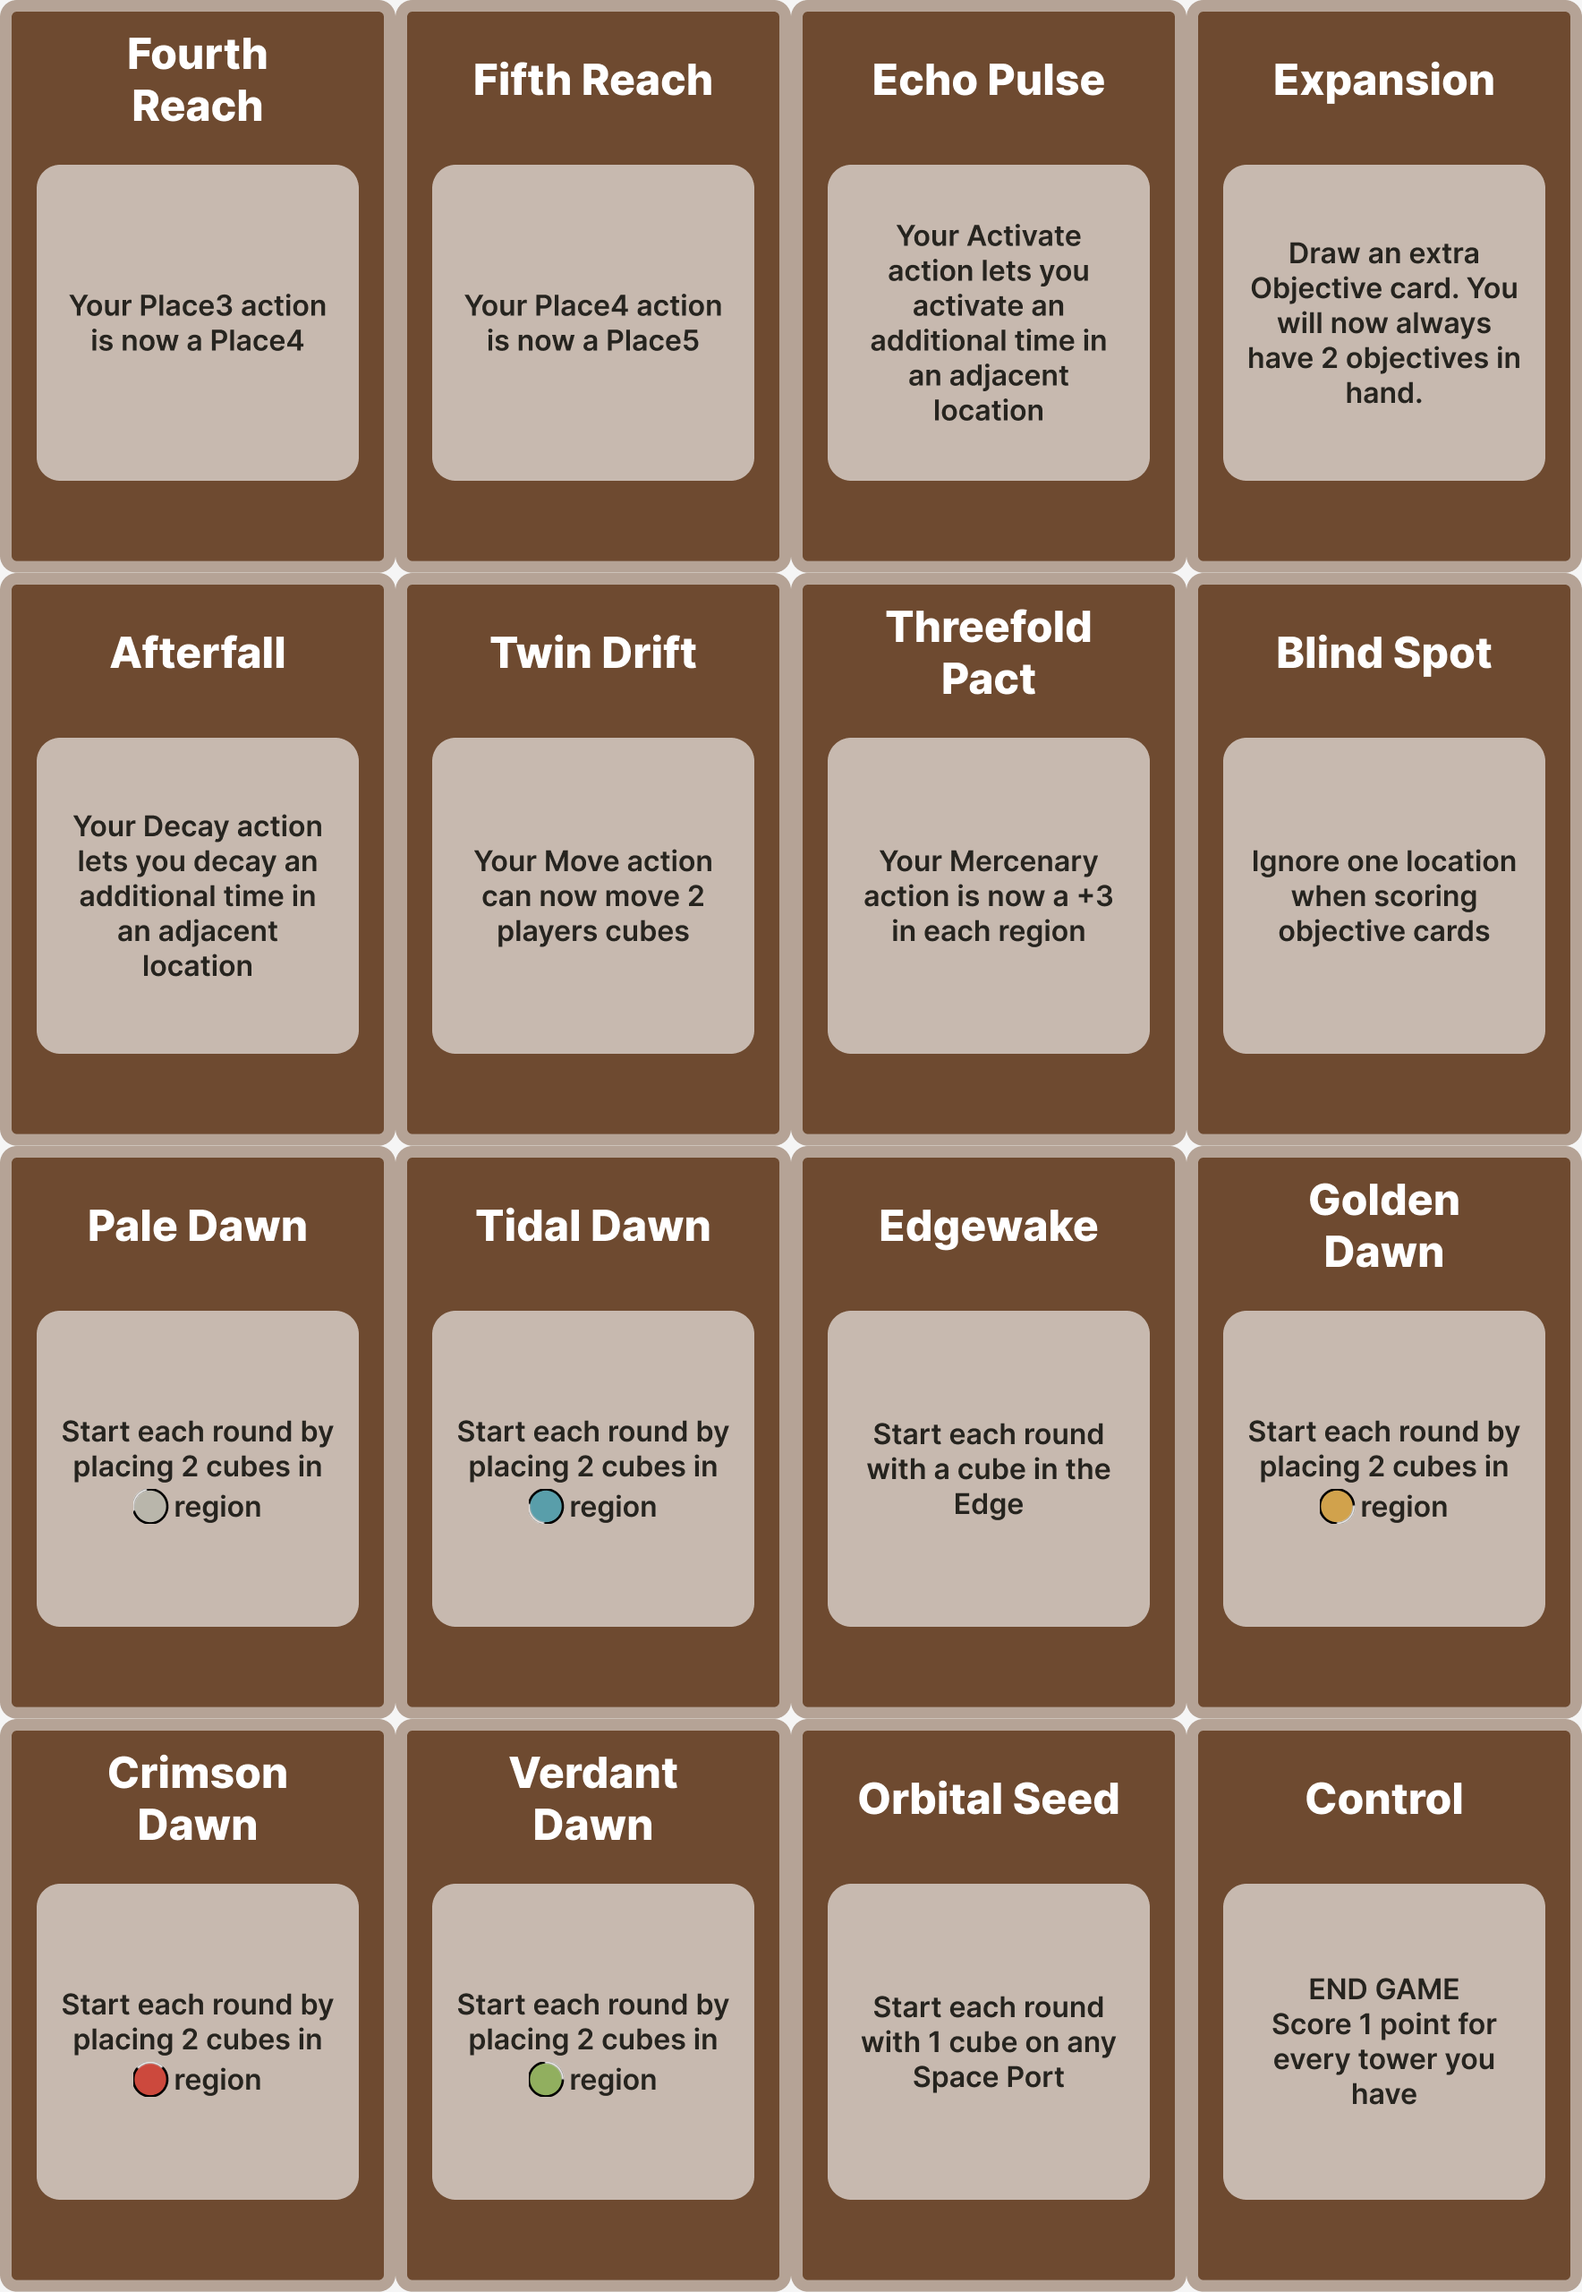
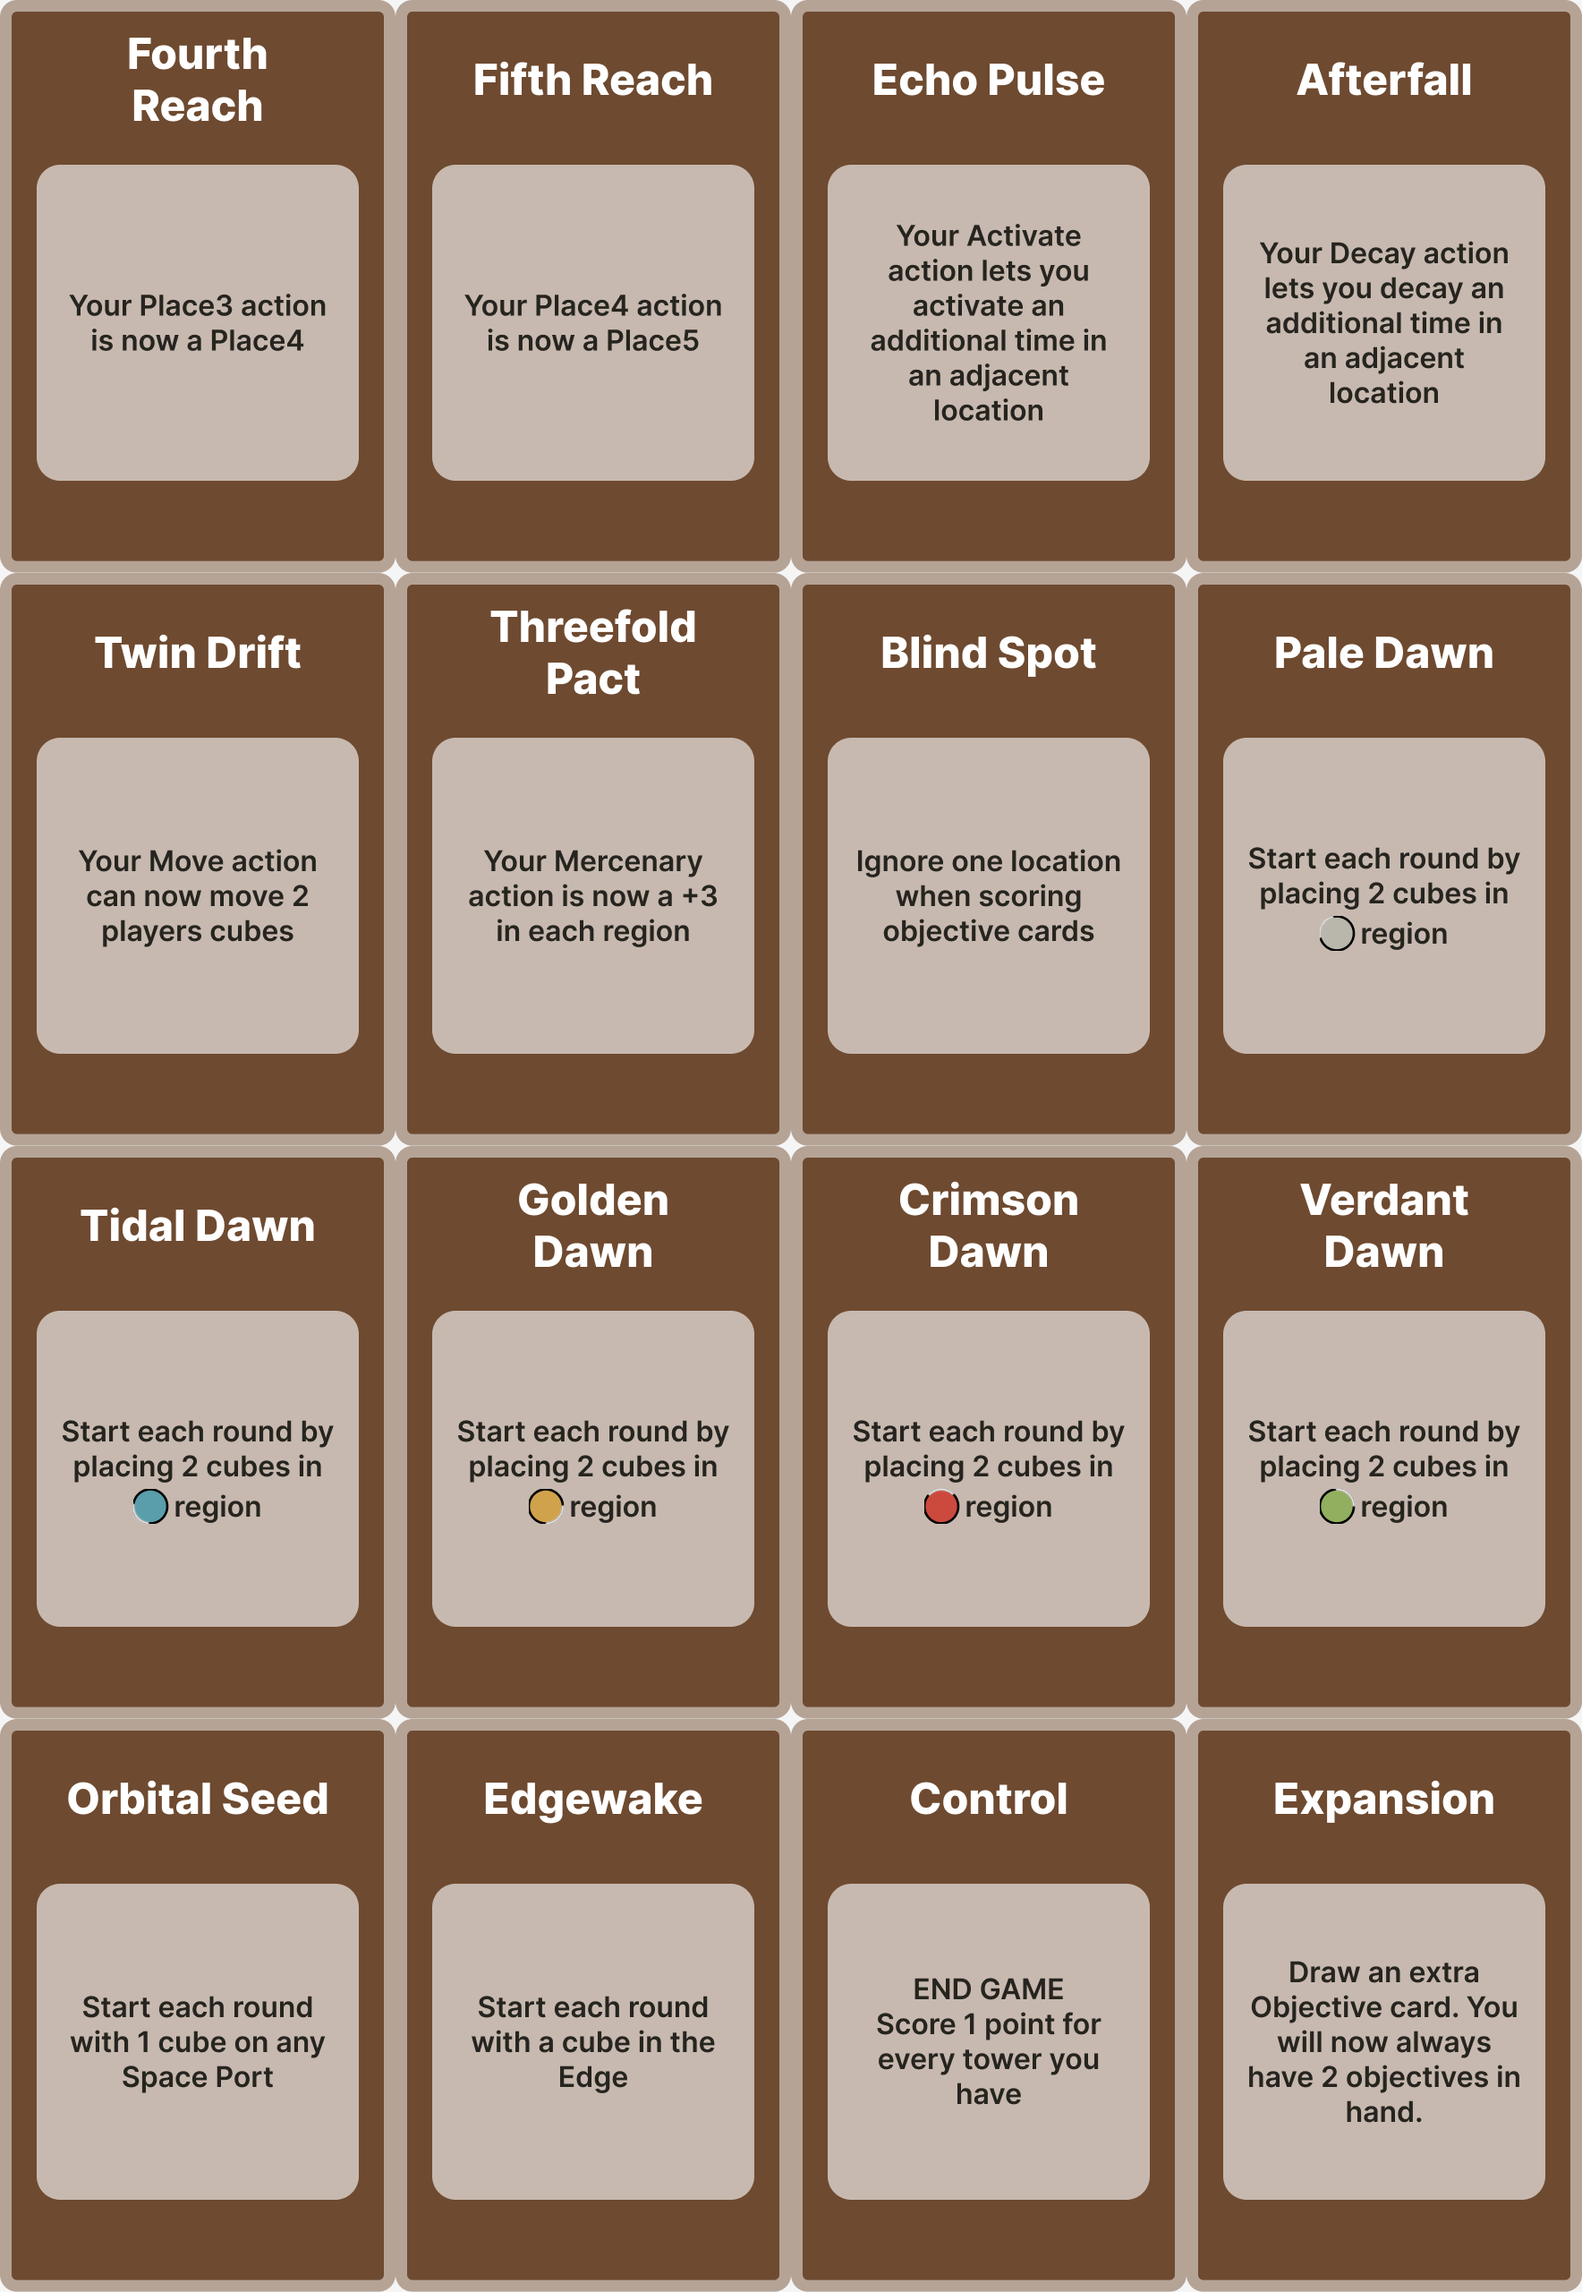
Publish Page 3 game assets and rebalance monuments

diff --git a/docs/catalog.js b/docs/catalog.js
@@ -1,1 +1,1 @@
-window.FRONTIER_CATALOG = {"source": "Figma Game components slice 218:13798", "boards": [{"title": "Main board", "figmaId": "206:12165", "path": "assets/boards/board-main-e46ceed54f.png", "width": 3394, "height": 2761}, {"title": "The Edge", "figmaId": "207:12552", "path": "assets/boards/board-edge-4a245f7e45.png", "width": 1536, "height": 1024}], "cards": [{"title": "Action Guide", "figmaId": "193:5684", "path": "assets/cards/card-action-guide-6323e6fee4.png", "width": 506, "height": 729}, {"title": "Region Bonus Guide", "figmaId": "193:5730", "path": "assets/cards/card-region-bonus-guide-800eb32bd9.png", "width": 506, "height": 732}], "references": [], "decks": [{"title": "Monuments", "figmaId": "216:4802", "count": 33, "columns": 8, "rows": 5, "cardWidth": 442, "cardHeight": 640, "face": {"path": "assets/decks/monuments-faces-d44fdccb0e.png", "width": 3536, "height": 3200}, "back": {"path": "assets/decks/monuments-back-a65fba90e2.png", "width": 442, "height": 640}}, {"title": "Objectives", "figmaId": "193:5755", "count": 30, "columns": 6, "rows": 5, "cardWidth": 388, "cardHeight": 519, "face": {"path": "assets/decks/objectives-faces-4d91a50427.png", "width": 2328, "height": 2595}, "back": {"path": "assets/decks/objectives-back-c08c78cc67.png", "width": 388, "height": 519}}, {"title": "Specials", "figmaId": "220:3842", "count": 16, "columns": 4, "rows": 4, "cardWidth": 442, "cardHeight": 640, "face": {"path": "assets/decks/specials-faces-adc1172863.png", "width": 1768, "height": 2560}, "back": {"path": "assets/decks/specials-back-0b946676e3.png", "width": 442, "height": 640}}], "tokens": [{"title": "Action tile 1", "figmaId": "193:5655", "path": "assets/tokens/action-tile-1-fb100c9aa5.png", "width": 213, "height": 213}, {"title": "Action tile 2", "figmaId": "193:5672", "path": "assets/tokens/action-tile-2-7107aa55c8.png", "width": 213, "height": 213}, {"title": "Action tile 3", "figmaId": "253:3964", "path": "assets/tokens/action-tile-3-ef94b504ad.png", "width": 213, "height": 213}, {"title": "Action tile 4", "figmaId": "193:5678", "path": "assets/tokens/action-tile-4-21af0fce2d.png", "width": 213, "height": 213}, {"title": "Action tile 5", "figmaId": "193:5660", "path": "assets/tokens/action-tile-5-39a0ec00fc.png", "width": 213, "height": 213}, {"title": "Action tile 6", "figmaId": "193:5669", "path": "assets/tokens/action-tile-6-813e8438d5.png", "width": 213, "height": 213}, {"title": "Action tile 7", "figmaId": "229:13799", "path": "assets/tokens/action-tile-7-7d3d7a7703.png", "width": 213, "height": 213}]};
+window.FRONTIER_CATALOG = {"source": "Figma Page 3 Game components slice 282:2815", "boards": [{"title": "Main board", "figmaId": "282:1521", "path": "assets/boards/board-main-e46ceed54f.png", "width": 3394, "height": 2761}, {"title": "The Edge", "figmaId": "282:1845", "path": "assets/boards/board-edge-4a245f7e45.png", "width": 1536, "height": 1024}], "cards": [{"title": "Action Guide", "figmaId": "282:1189", "path": "assets/cards/card-action-guide-6323e6fee4.png", "width": 506, "height": 729}, {"title": "Region Bonus Guide", "figmaId": "282:1230", "path": "assets/cards/card-region-bonus-guide-800eb32bd9.png", "width": 506, "height": 732}], "references": [], "decks": [{"title": "Monuments", "figmaId": "282:1897", "count": 30, "columns": 8, "rows": 4, "cardWidth": 442, "cardHeight": 640, "face": {"path": "assets/decks/monuments-faces-d44fdccb0e.png", "width": 3536, "height": 2560}, "back": {"path": "assets/decks/monuments-back-a65fba90e2.png", "width": 442, "height": 640}}, {"title": "Objectives", "figmaId": "282:1252", "count": 30, "columns": 6, "rows": 5, "cardWidth": 388, "cardHeight": 519, "face": {"path": "assets/decks/objectives-faces-4d91a50427.png", "width": 2328, "height": 2595}, "back": {"path": "assets/decks/objectives-back-c08c78cc67.png", "width": 388, "height": 519}}, {"title": "Specials", "figmaId": "282:2715", "count": 16, "columns": 4, "rows": 4, "cardWidth": 442, "cardHeight": 640, "face": {"path": "assets/decks/specials-faces-adc1172863.png", "width": 1768, "height": 2560}, "back": {"path": "assets/decks/specials-back-0b946676e3.png", "width": 442, "height": 640}}], "tokens": [{"title": "Action tile 1", "figmaId": "282:1158", "path": "assets/tokens/action-tile-1-fb100c9aa5.png", "width": 213, "height": 213}, {"title": "Action tile 2", "figmaId": "282:1180", "path": "assets/tokens/action-tile-2-7107aa55c8.png", "width": 213, "height": 213}, {"title": "Action tile 4", "figmaId": "282:1183", "path": "assets/tokens/action-tile-4-21af0fce2d.png", "width": 213, "height": 213}, {"title": "Action tile 5", "figmaId": "282:1168", "path": "assets/tokens/action-tile-5-39a0ec00fc.png", "width": 213, "height": 213}, {"title": "Action tile 6", "figmaId": "282:1177", "path": "assets/tokens/action-tile-6-813e8438d5.png", "width": 213, "height": 213}, {"title": "Action tile 7", "figmaId": "282:1163", "path": "assets/tokens/action-tile-7-7d3d7a7703.png", "width": 213, "height": 213}, {"title": "Action tile 7 (second design)", "figmaId": "282:2931", "path": "assets/tokens/action-tile-7-variant.png", "width": 213, "height": 213}, {"title": "Action tile 8", "figmaId": "282:2939", "path": "assets/tokens/action-tile-8.png", "width": 213, "height": 213}, {"title": "Action tile 9", "figmaId": "282:3841", "path": "assets/tokens/action-tile-9.png", "width": 213, "height": 213}, {"title": "Action tile 10", "figmaId": "282:3837", "path": "assets/tokens/action-tile-10.png", "width": 213, "height": 213}]};

diff --git a/docs/index.html b/docs/index.html
@@ -6,7 +6,7 @@
   <meta name="theme-color" content="#12171c">
   <title>Frontier · Tabletop Simulator assets</title>
   <link rel="stylesheet" href="styles.css?v=3">
-  <script defer src="catalog.js?v=0d57ff7569"></script>
+  <script defer src="catalog.js?v=48ce4b843c"></script>
   <script defer src="app.js?v=6"></script>
 </head>
 <body>
@@ -46,7 +46,7 @@
       <div id="token-list" class="asset-grid token-grid"></div>
     </section>
   </main>
-  <footer><span>Frontier · Game components</span><span>Source artwork: <a href="https://www.figma.com/design/Pe6o98Z2YYYgNB8kH33Pgl/Frontier?node-id=218-13798" target="_blank" rel="noopener">Figma slice ↗</a></span></footer>
+  <footer><span>Frontier · Game components</span><span>Source artwork: <a href="https://www.figma.com/design/Pe6o98Z2YYYgNB8kH33Pgl/Frontier?node-id=282-2815" target="_blank" rel="noopener">Figma slice ↗</a></span></footer>
   <div class="toast" id="toast" role="status" aria-live="polite"></div>
 </body>
 </html>

diff --git a/scripts/build_assets.py b/scripts/build_assets.py
@@ -123,29 +123,29 @@ def sheet(name: str, count: int, source_columns: int, origin: tuple[int, int],
 def main() -> None:
     DOCS.mkdir(exist_ok=True)
     publish = Publisher()
-    catalog = {"source": "Figma Game components slice 218:13798", "boards": [],
+    catalog = {"source": "Figma Page 3 Game components slice 282:2815", "boards": [],
                "cards": [], "references": [], "decks": [], "tokens": []}
 
     for slug, title, figma_id in [
-        ("board-main", "Main board", "206:12165"),
-        ("board-edge", "The Edge", "207:12552"),
+        ("board-main", "Main board", "282:1521"),
+        ("board-edge", "The Edge", "282:1845"),
     ]:
         catalog["boards"].append({"title": title, "figmaId": figma_id,
                                    **publish(load(slug), "boards", slug)})
 
     for slug, title, figma_id in [
-        ("card-action-guide", "Action Guide", "193:5684"),
-        ("card-region-bonus-guide", "Region Bonus Guide", "193:5730"),
+        ("card-action-guide", "Action Guide", "282:1189"),
+        ("card-region-bonus-guide", "Region Bonus Guide", "282:1230"),
     ]:
         catalog["cards"].append({"title": title, "figmaId": figma_id,
                                   **publish(load(slug), "cards", slug)})
 
     deck_specs = [
-        ("monuments", "monuments", "Monuments", "216:4802", 33, 6, (0, 0), (482, 680),
-         (442, 640), 8, 5, "back-monument", 0),
-        ("objectives", "objectives", "Objectives", "193:5755", 30, 6, (196, 140), (420, 551),
+        ("monuments", "monuments", "Monuments", "282:1897", 30, 6, (0, 0), (482, 680),
+         (442, 640), 8, 4, "back-monument", 0),
+        ("objectives", "objectives", "Objectives", "282:1252", 30, 6, (196, 140), (420, 551),
          (388, 519), 6, 5, "back-objective", 0),
-        ("specials", "specials", "Specials", "220:3842", 16, 5, (0, 0), (482, 680),
+        ("specials", "specials", "Specials", "282:2715", 16, 4, (0, 0), (482, 680),
          (442, 640), 4, 4, "back-special", 0),
     ]
     for (slug, asset_slug, title, figma_id, count, source_columns, origin, stride,
@@ -161,16 +161,22 @@ def main() -> None:
         catalog["decks"].append({"title": title, "figmaId": figma_id,
                                   **packed, "face": face, "back": back_asset})
 
-    # Keep the previously issued single-card URL current, even though card 33
-    # now appears in the main Monument sheet.
-    extra = sheet("monuments", 1, 6, (0, 0), (482, 680), (442, 640), 1, 1, 32)
-    publish(extra["image"], "decks", "monument-33-faces")
-
-    action_tile_ids = ["193:5655", "193:5672", "253:3964", "193:5678",
-                       "193:5660", "193:5669", "229:13799"]
-    for number, figma_id in enumerate(action_tile_ids, start=1):
-        slug = f"action-tile-{number}"
-        catalog["tokens"].append({"title": f"Action tile {number}",
+    # Page 3 has no ActionTile3 and contains two distinct ActionTile7 frames.
+    # Keep the original tile 7 URL on the upper-row design for existing TTS links.
+    action_tiles = [
+        ("action-tile-1", "Action tile 1", "282:1158"),
+        ("action-tile-2", "Action tile 2", "282:1180"),
+        ("action-tile-4", "Action tile 4", "282:1183"),
+        ("action-tile-5", "Action tile 5", "282:1168"),
+        ("action-tile-6", "Action tile 6", "282:1177"),
+        ("action-tile-7", "Action tile 7", "282:1163"),
+        ("action-tile-7-variant", "Action tile 7 (second design)", "282:2931"),
+        ("action-tile-8", "Action tile 8", "282:2939"),
+        ("action-tile-9", "Action tile 9", "282:3841"),
+        ("action-tile-10", "Action tile 10", "282:3837"),
+    ]
+    for slug, title, figma_id in action_tiles:
+        catalog["tokens"].append({"title": title,
                                   "figmaId": figma_id,
                                   **publish(load(slug), "tokens", slug)})
 
